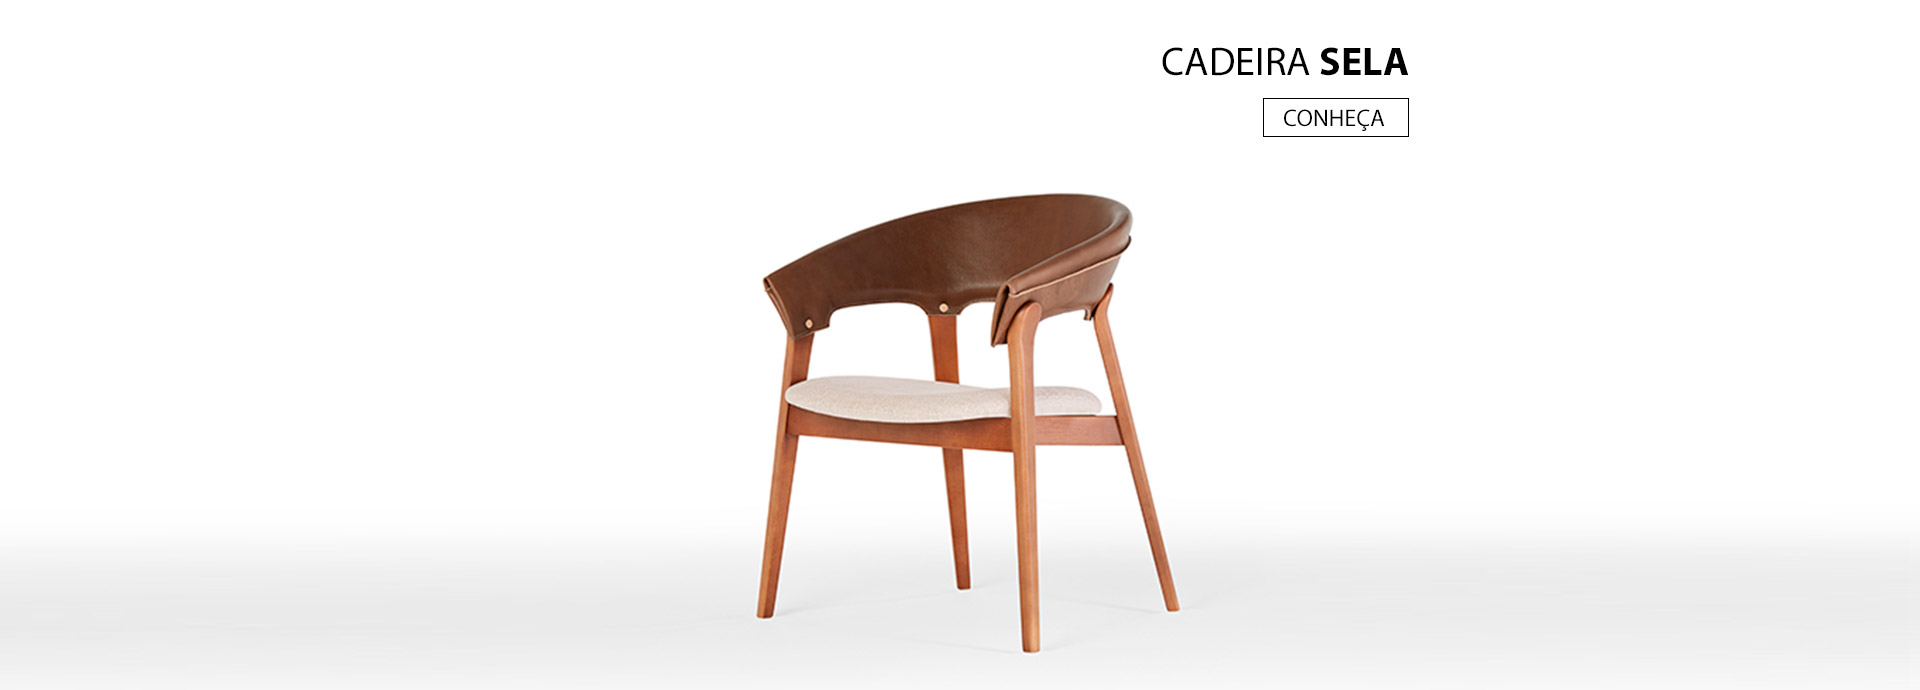
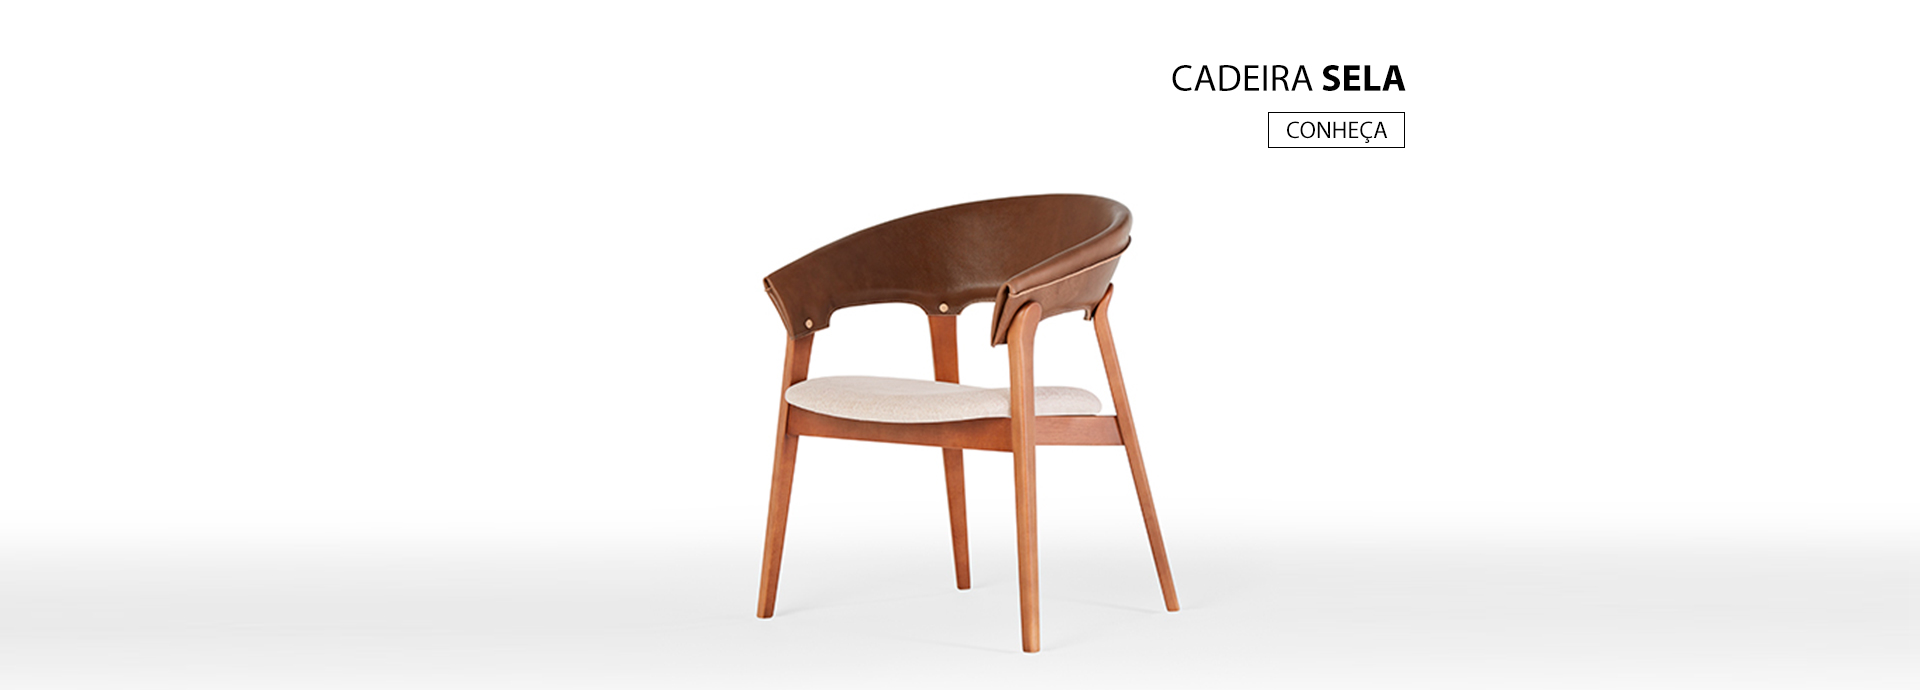
mais correções

Changed region(s): [[0.5938, 0.0609, 0.75, 0.213]]

diff --git a/src/components/finishes/Menu.tsx b/src/components/finishes/Menu.tsx
@@ -50,6 +50,7 @@ export const Menu: React.FC<MenuProps> = ({ category_slug }) => {
       <MenuSectionTitle>{t("pages.finishes.menuAny")}</MenuSectionTitle>
       <MenuSection>
         <MenuItem category="couro-natural" currentCategory={category_slug}>{t("finishes.naturalLeather")}</MenuItem>
+        <MenuItem category="couro-rustico" currentCategory={category_slug}>{t("finishes.rusticLeather")}</MenuItem>
         <MenuItem category="MDF-laminas-sinteticas" currentCategory={category_slug}>{t("finishes.syntheticVeneer")}</MenuItem>
         <MenuItem category="malha-knit" currentCategory={category_slug}>{t("finishes.fabricKnit")}</MenuItem>
         <MenuItem category="palha-natural" currentCategory={category_slug}>{t("finishes.naturalStraw")}</MenuItem>